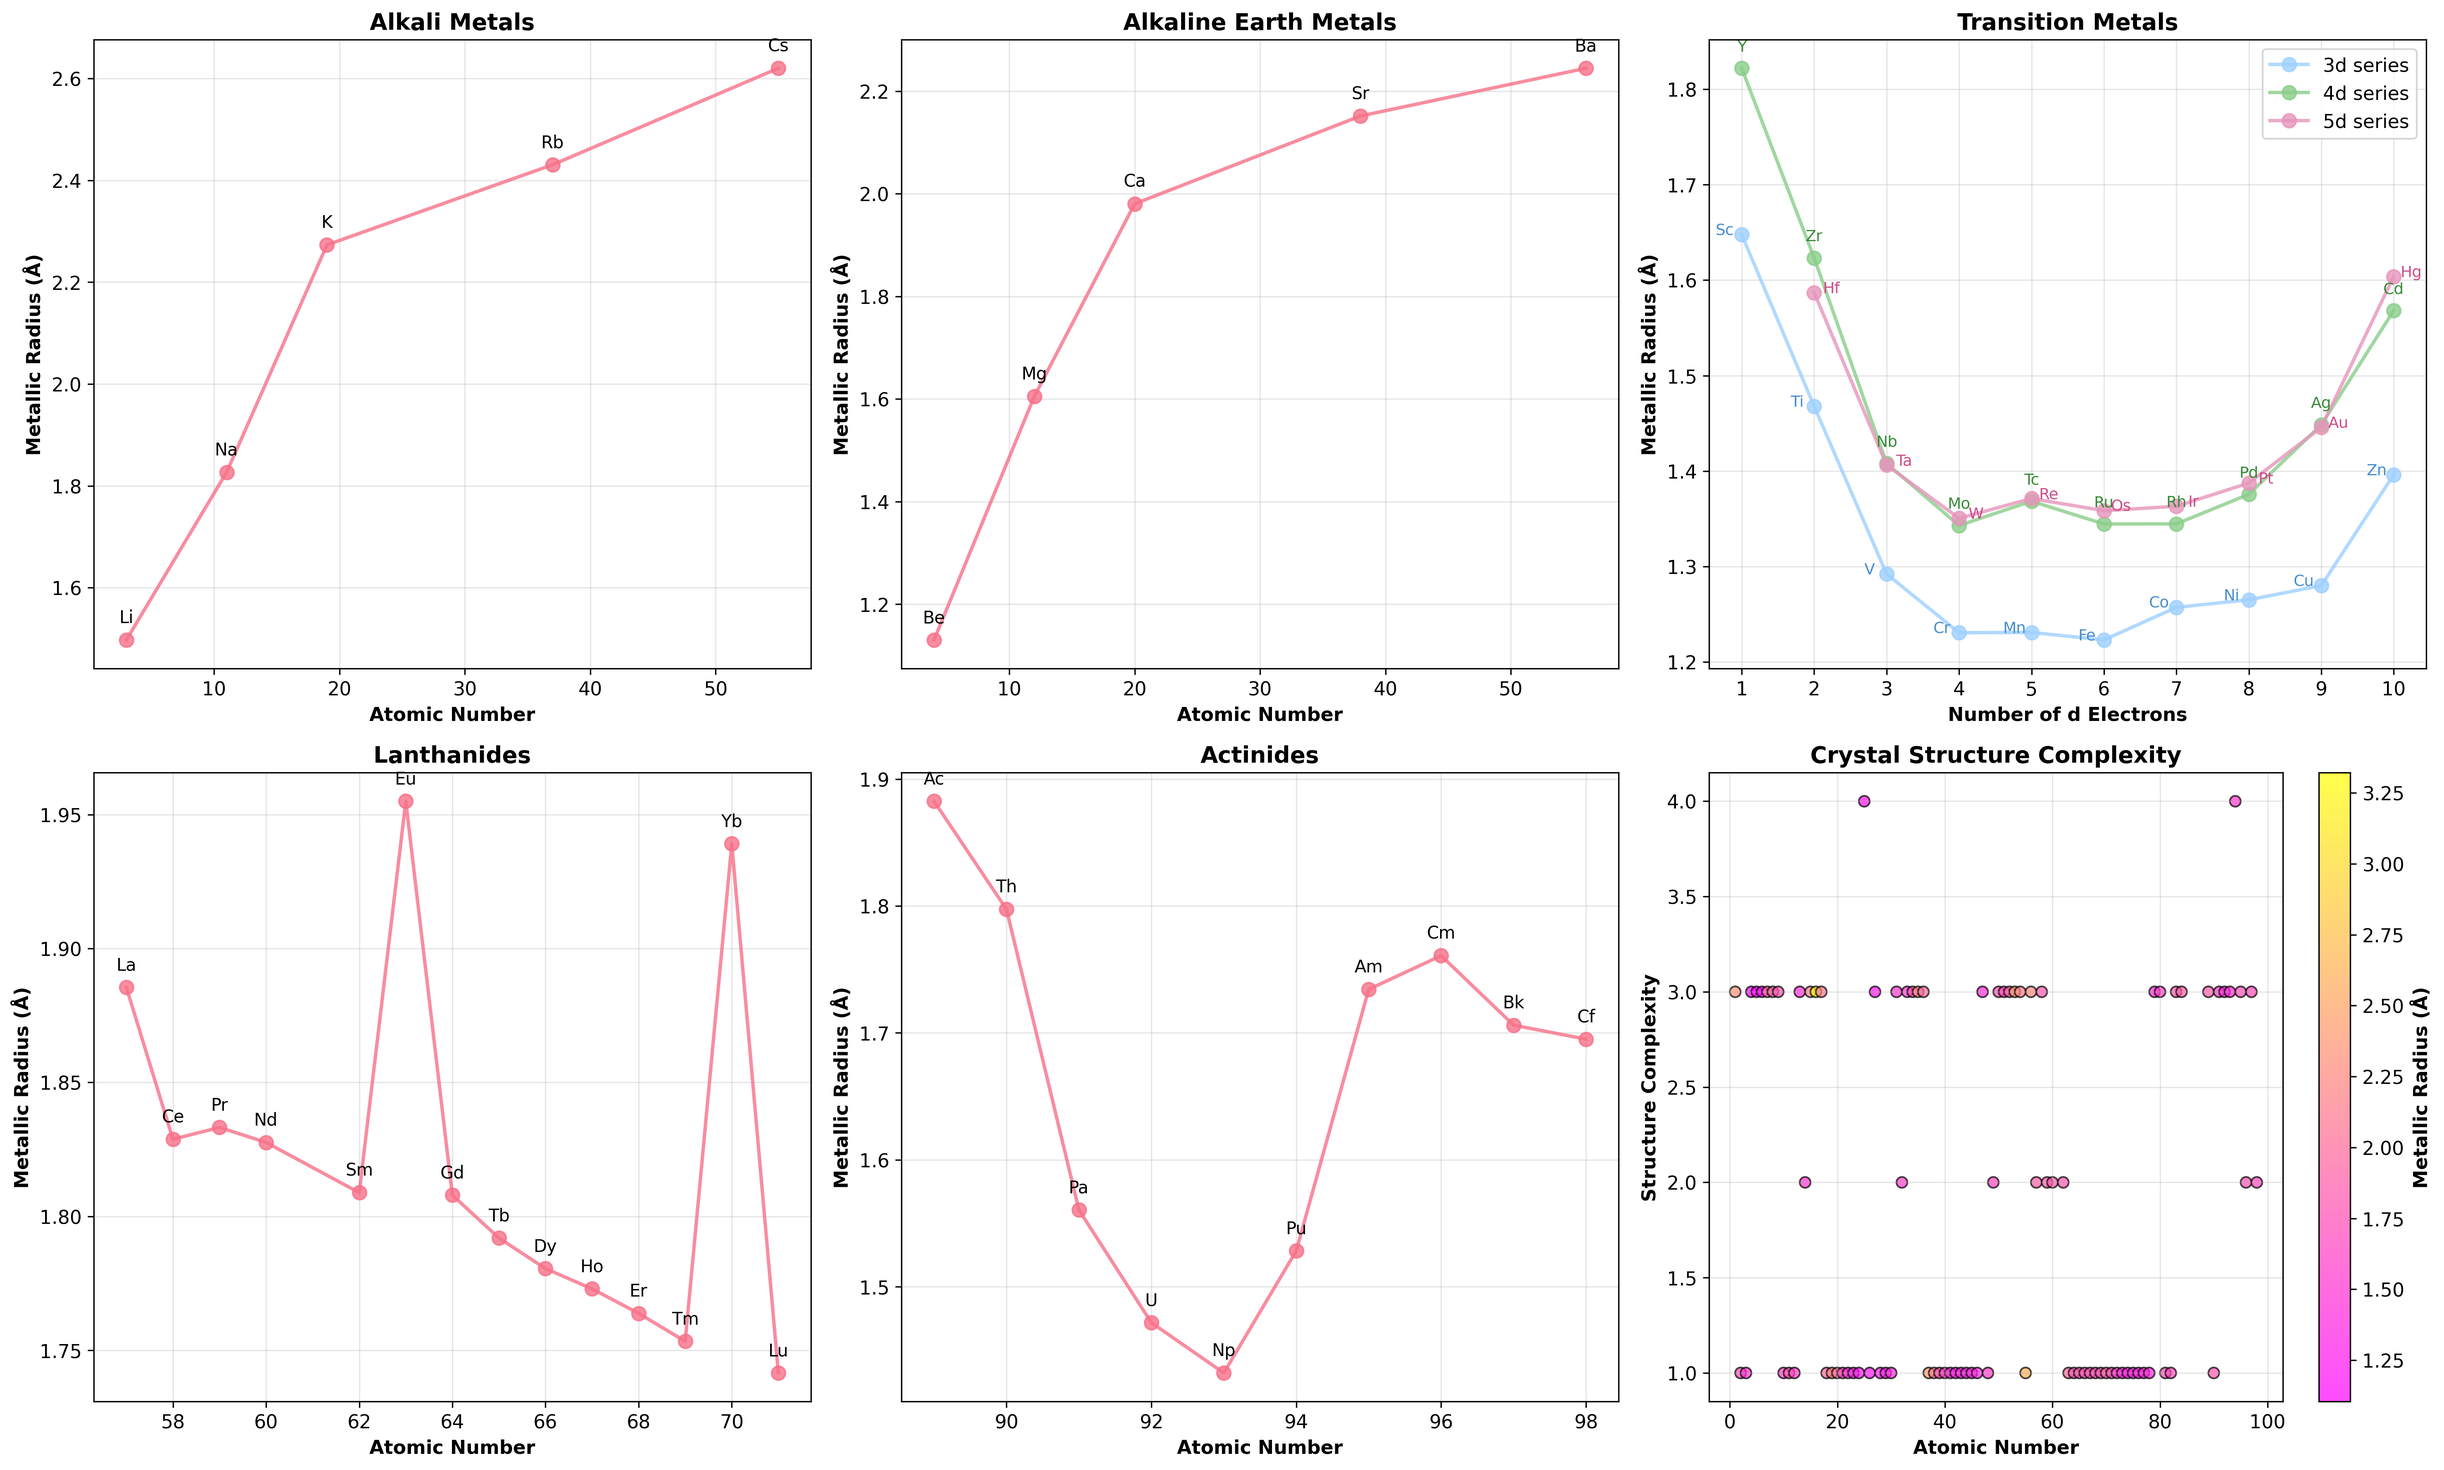
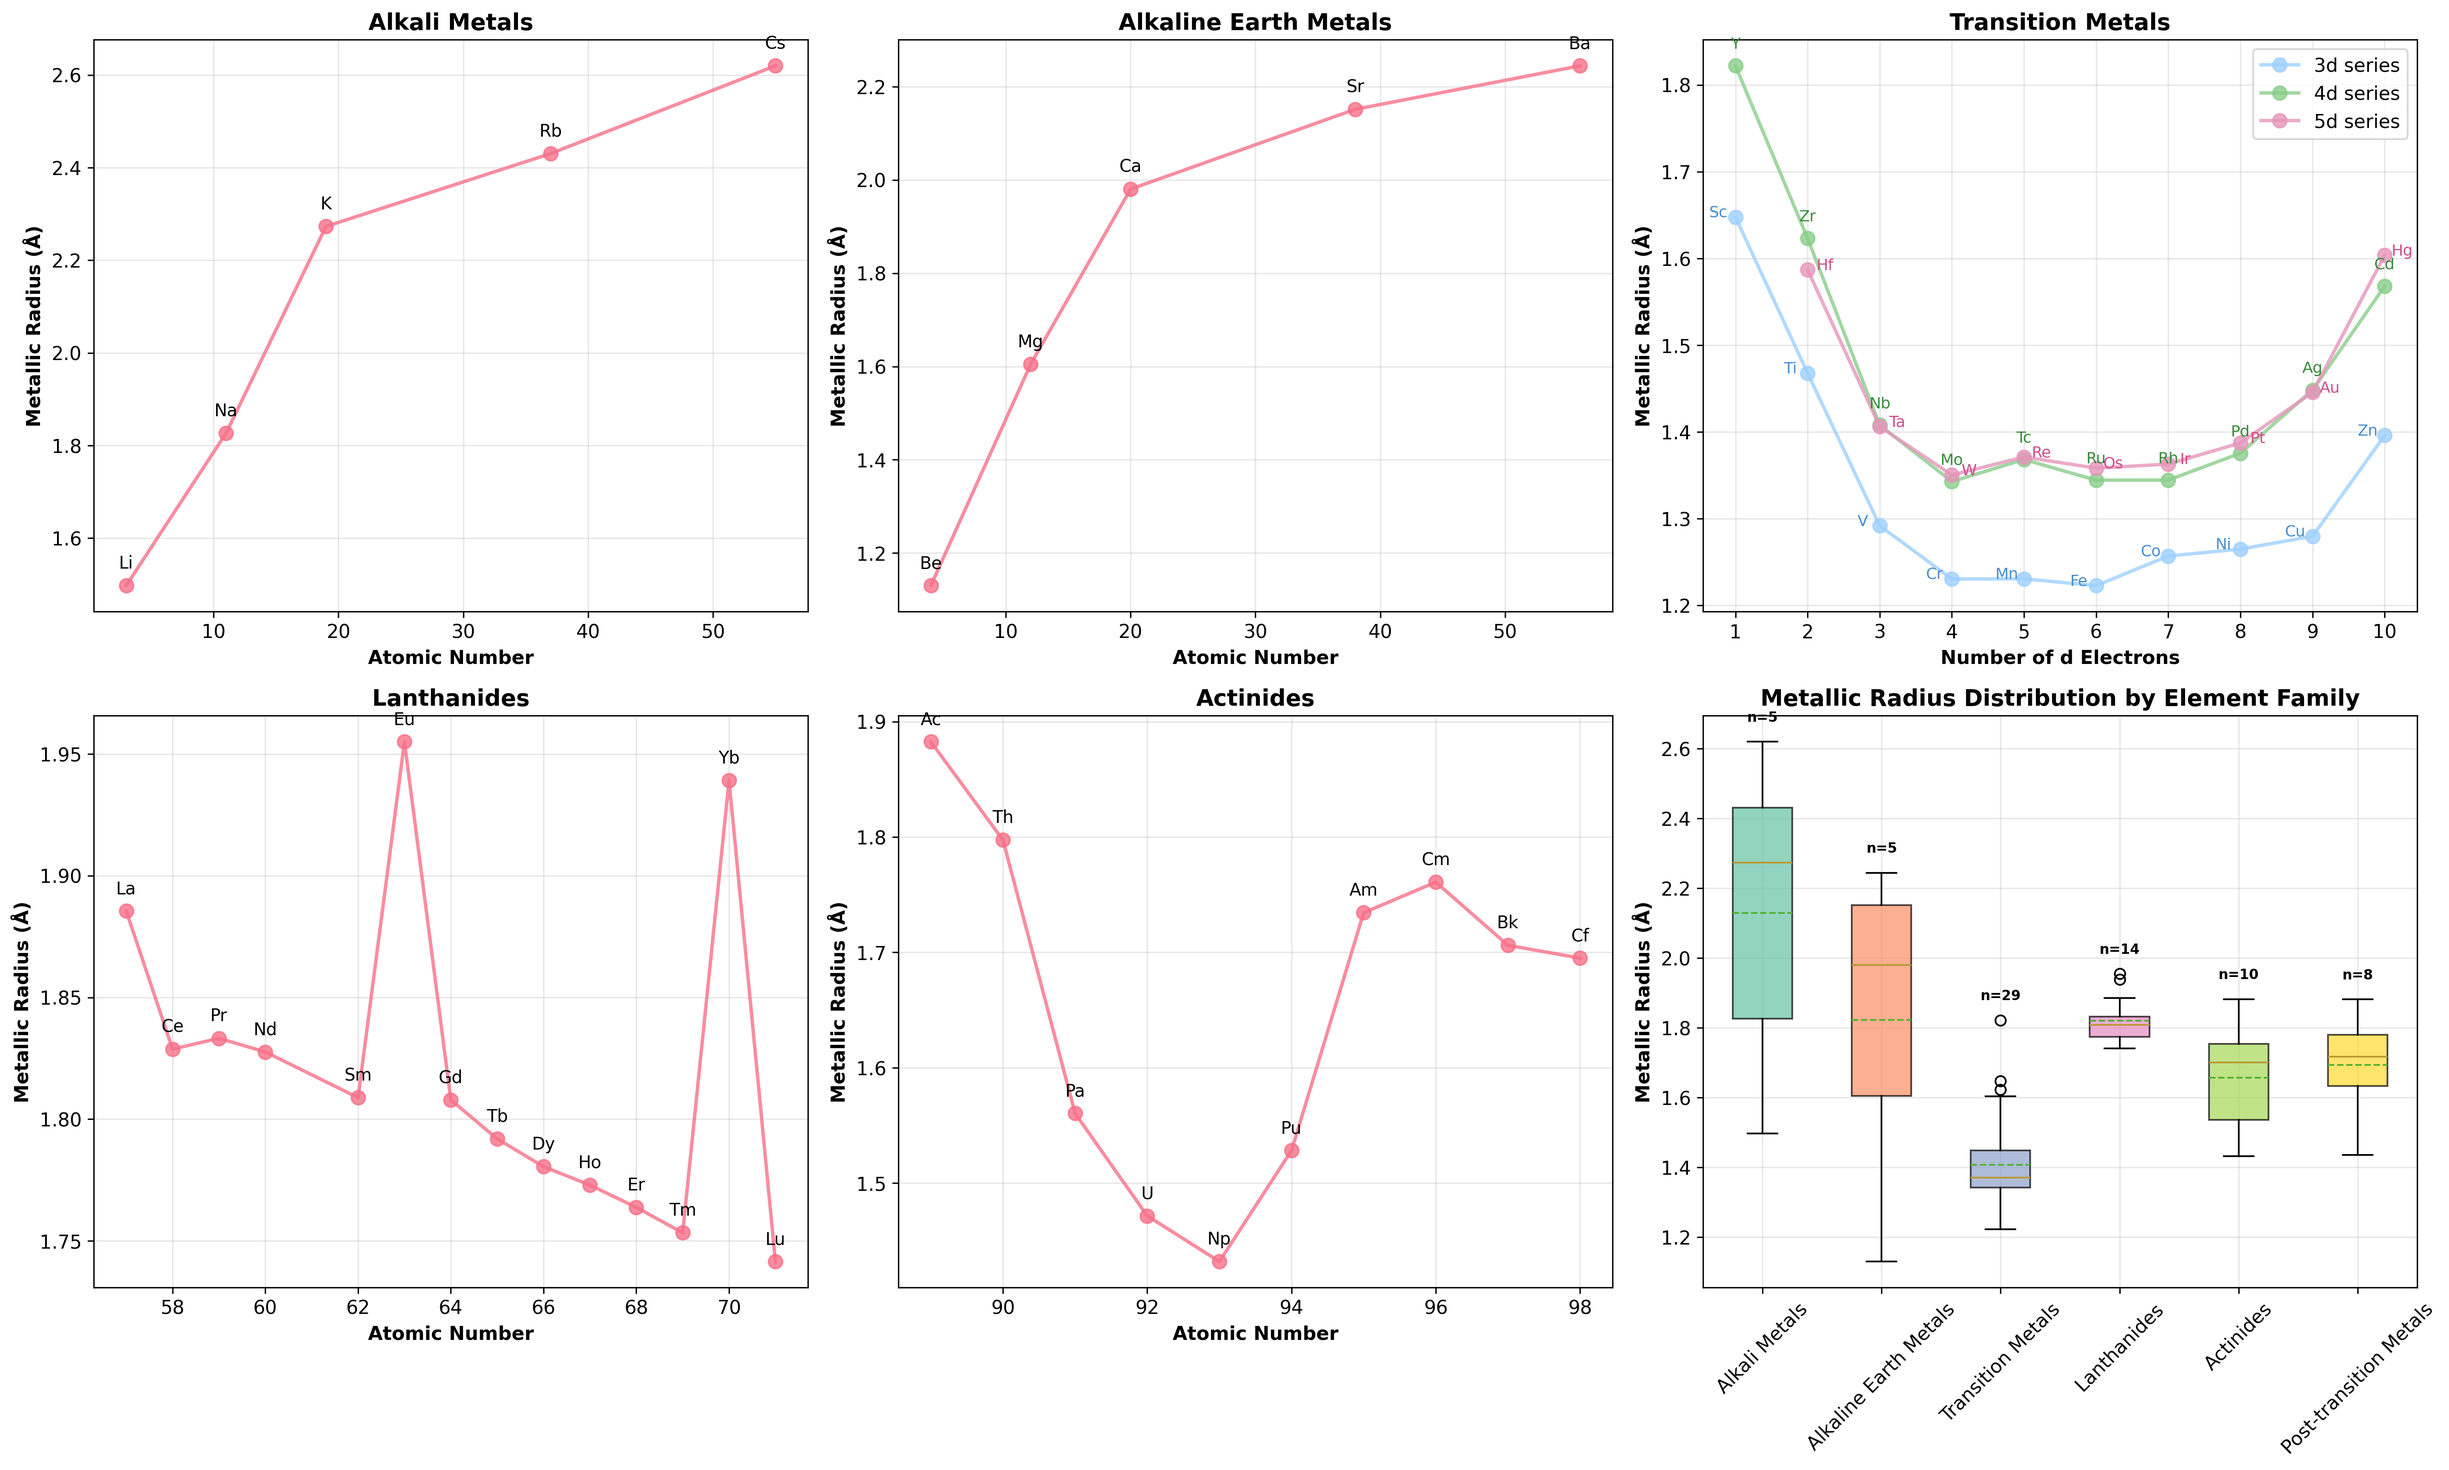
Modified 6th plot panel of element_families.png

diff --git a/visualizations.py b/visualizations.py
@@ -256,24 +256,56 @@ class PeriodicTableVisualizer:
                 axes[i].set_title(f'{family}', fontweight='bold')
                 axes[i].grid(True, alpha=0.3)
         
-        # Crystal structure complexity analysis
-        df_complexity = self.enhanced_df.copy()
-        df_complexity['Structure Complexity'] = df_complexity['Crystal System'].map({
-            'fcc': 1, 'hcp': 1, 'bcc': 1,
-            'diamond': 2, 'α-La': 2,
-            'α-Mn': 4, 'α-Np': 3, 'U': 3, 'α-Pa': 3,
-            'α-Ga': 3, 'mP16': 4, 'tI2': 2
-        }).fillna(3)  # Default complexity
+        # Radius range by element family - Box plot analysis
+        family_radius_data = []
+        family_labels = []
+        family_colors = []
         
-        scatter = axes[5].scatter(df_complexity['Atomic Number'], df_complexity['Structure Complexity'],
-                                c=df_complexity['Primary Radius (Å)'], cmap='spring', 
-                                s=40, alpha=0.7, edgecolors='black')
-        axes[5].set_xlabel('Atomic Number', fontweight='bold')
-        axes[5].set_ylabel('Structure Complexity', fontweight='bold')
-        axes[5].set_title('Crystal Structure Complexity', fontweight='bold')
-        cbar = plt.colorbar(scatter, ax=axes[5])
-        cbar.set_label('Metallic Radius (Å)', fontweight='bold')
-        axes[5].grid(True, alpha=0.3)
+        # Get families with sufficient data (at least 3 elements)
+        all_families = ['Alkali Metals', 'Alkaline Earth Metals', 'Transition Metals', 
+                       'Lanthanides', 'Actinides', 'Post-transition Metals']
+        
+        color_palette = sns.color_palette("Set2", len(all_families))
+        
+        for i, family in enumerate(all_families):
+            family_data = self.enhanced_df[self.enhanced_df['Element Category'] == family]
+            family_radii = family_data['Primary Radius (Å)'].dropna()
+            
+            if len(family_radii) >= 2:  # Need at least 2 points for a meaningful box plot
+                family_radius_data.append(family_radii.values)
+                family_labels.append(family)
+                family_colors.append(color_palette[i])
+        
+        if family_radius_data:
+            # Create box plot
+            box_plot = axes[5].boxplot(family_radius_data, 
+                                     labels=family_labels,
+                                     patch_artist=True,
+                                     showmeans=True,
+                                     meanline=True)
+            
+            # Color the boxes
+            for patch, color in zip(box_plot['boxes'], family_colors):
+                patch.set_facecolor(color)
+                patch.set_alpha(0.7)
+            
+            # Style the plot
+            axes[5].set_ylabel('Metallic Radius (Å)', fontweight='bold')
+            axes[5].set_title('Metallic Radius Distribution by Element Family', fontweight='bold')
+            axes[5].tick_params(axis='x', rotation=45)
+            axes[5].grid(True, alpha=0.3, axis='y')
+            
+            # Add statistical annotations
+            for i, (radii, label) in enumerate(zip(family_radius_data, family_labels)):
+                n_elements = len(radii)
+                axes[5].text(i+1, max(radii) + 0.05, f'n={n_elements}', 
+                           ha='center', va='bottom', fontsize=8, fontweight='bold')
+        else:
+            # Fallback if no family data available
+            axes[5].text(0.5, 0.5, 'Insufficient family data\nfor box plot analysis', 
+                       ha='center', va='center', transform=axes[5].transAxes,
+                       fontsize=12, fontweight='bold')
+            axes[5].set_title('Radius Distribution by Family', fontweight='bold')
         
         plt.tight_layout()
         
